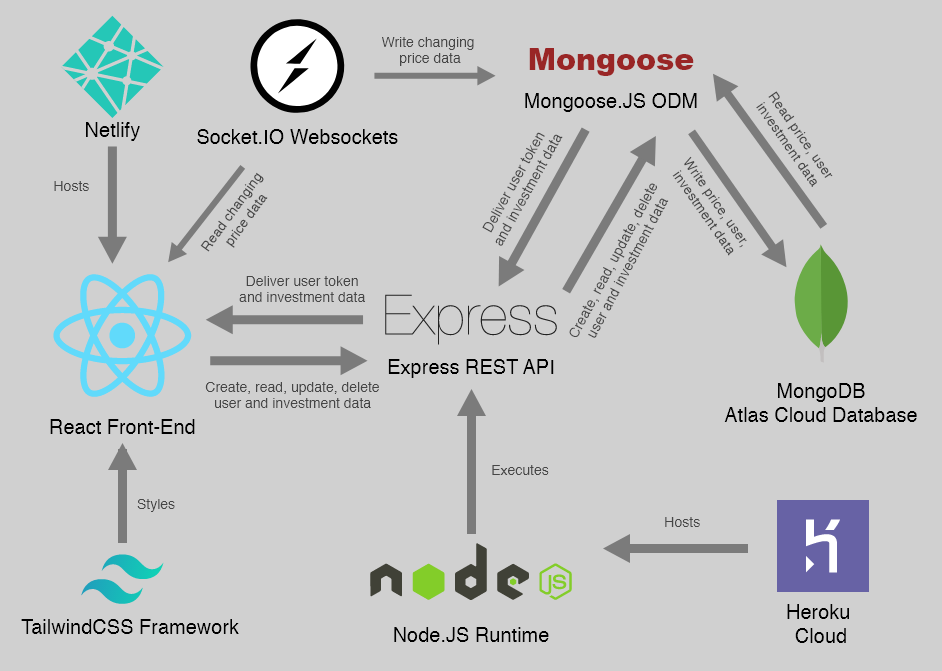
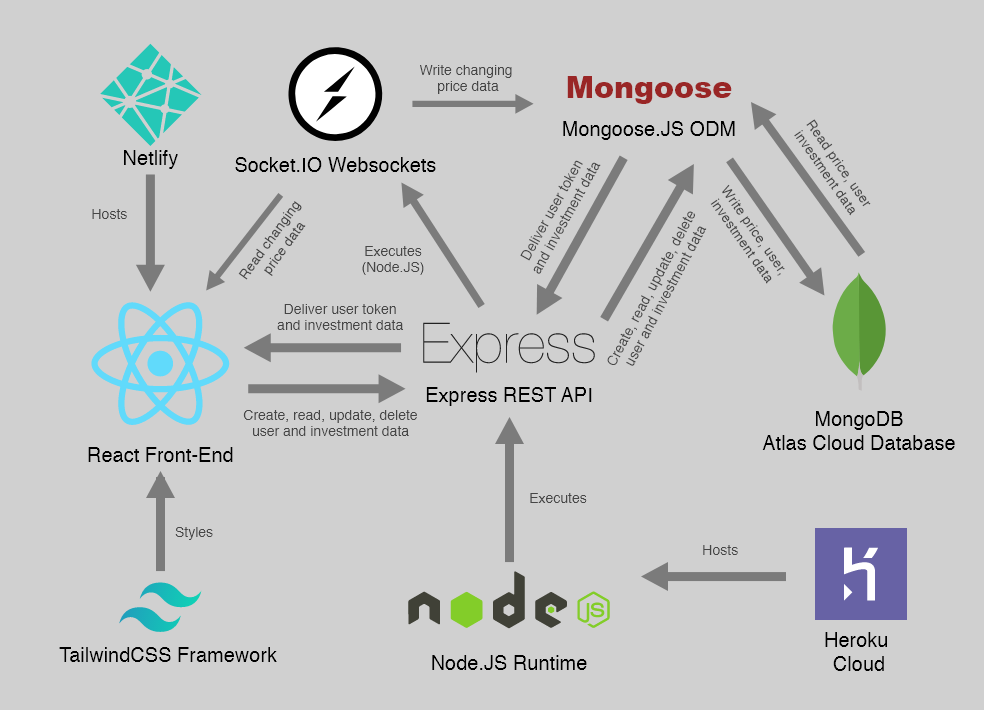
new architecture diagrams

diff --git a/README.md b/README.md
@@ -9,7 +9,9 @@ Mock Stocks is a trading and investment platform simulation built with the [MERN
 - [Tech](#tech)<br/>
 - [Data](#data)<br/>
 - [Developing](#developing)<br/>
-- [Architecture](#architecture)<br/>
+- [Architecture Diagrams](#architecture-diagrams)<br/>
+- [Front-End System Design, Decisions and Improvements To Make](#front-end-system-design-and-decisions)<br/>
+- [Back-End System Design, Decisions and Improvements To Make](#back-end-system-design-and-decisions)<br/>
 - [Demos](#demo-gifs)<br/>
 
 ## Tech
@@ -144,7 +146,7 @@ Now you can spin up the frontend. Default port is `3000` for a [create-react-app
 npm start
 ```
 
-## Architecture
+## Architecture Diagrams
 
 **System Architecture**
 
@@ -157,6 +159,70 @@ Big picture view of the application at a glance.
 MongoDB database structure following [normalized data models.](https://docs.mongodb.com/manual/core/data-model-design/#normalized-data-models)
 
 ![Database Architecture](./architecture_diagrams/MockStocksDatabase.png "Database Architecture")
+
+**Back-End Architecture**
+
+[MVC-like](https://codedec.com/tutorials/workflow-and-folder-structure-for-mern-application/) architecture for manipulating, reading and writing data to the database, returning it as JSON responses to the frontend.
+
+![Back-End Architecture](./architecture_diagrams/MockStocksBackend.png "Back-End Architecture")
+
+**Front-End Architecture**
+
+[Component hierarchy](https://reactjs.org/docs/thinking-in-react.html#step-1-break-the-ui-into-a-component-hierarchy) of the React application that splits the UI into reusable components to avoid code duplication and increase maintainability.
+
+![Front-End Architecture](./architecture_diagrams/MockStocksFrontend.png "Front-End Architecture")
+
+## Front-End System Design and Decisions
+
+**Technical Decisions**
+
+Todo...
+
+**Maintainability**
+
+Todo...
+
+**Scalability**
+
+Todo...
+
+**Performance**
+
+Todo...
+
+**Security**
+
+Todo...
+
+**Accessibility**
+
+Todo...
+
+**User Experience**
+
+Todo...
+
+## Back-End System Design and Decisions
+
+**Technical Decisions**
+
+Todo...
+
+**Maintainability**
+
+Todo...
+
+**Scalability**
+
+Todo...
+
+**Performance**
+
+Todo...
+
+**Security**
+
+Todo...
 
 ## Demo GIFs
 
